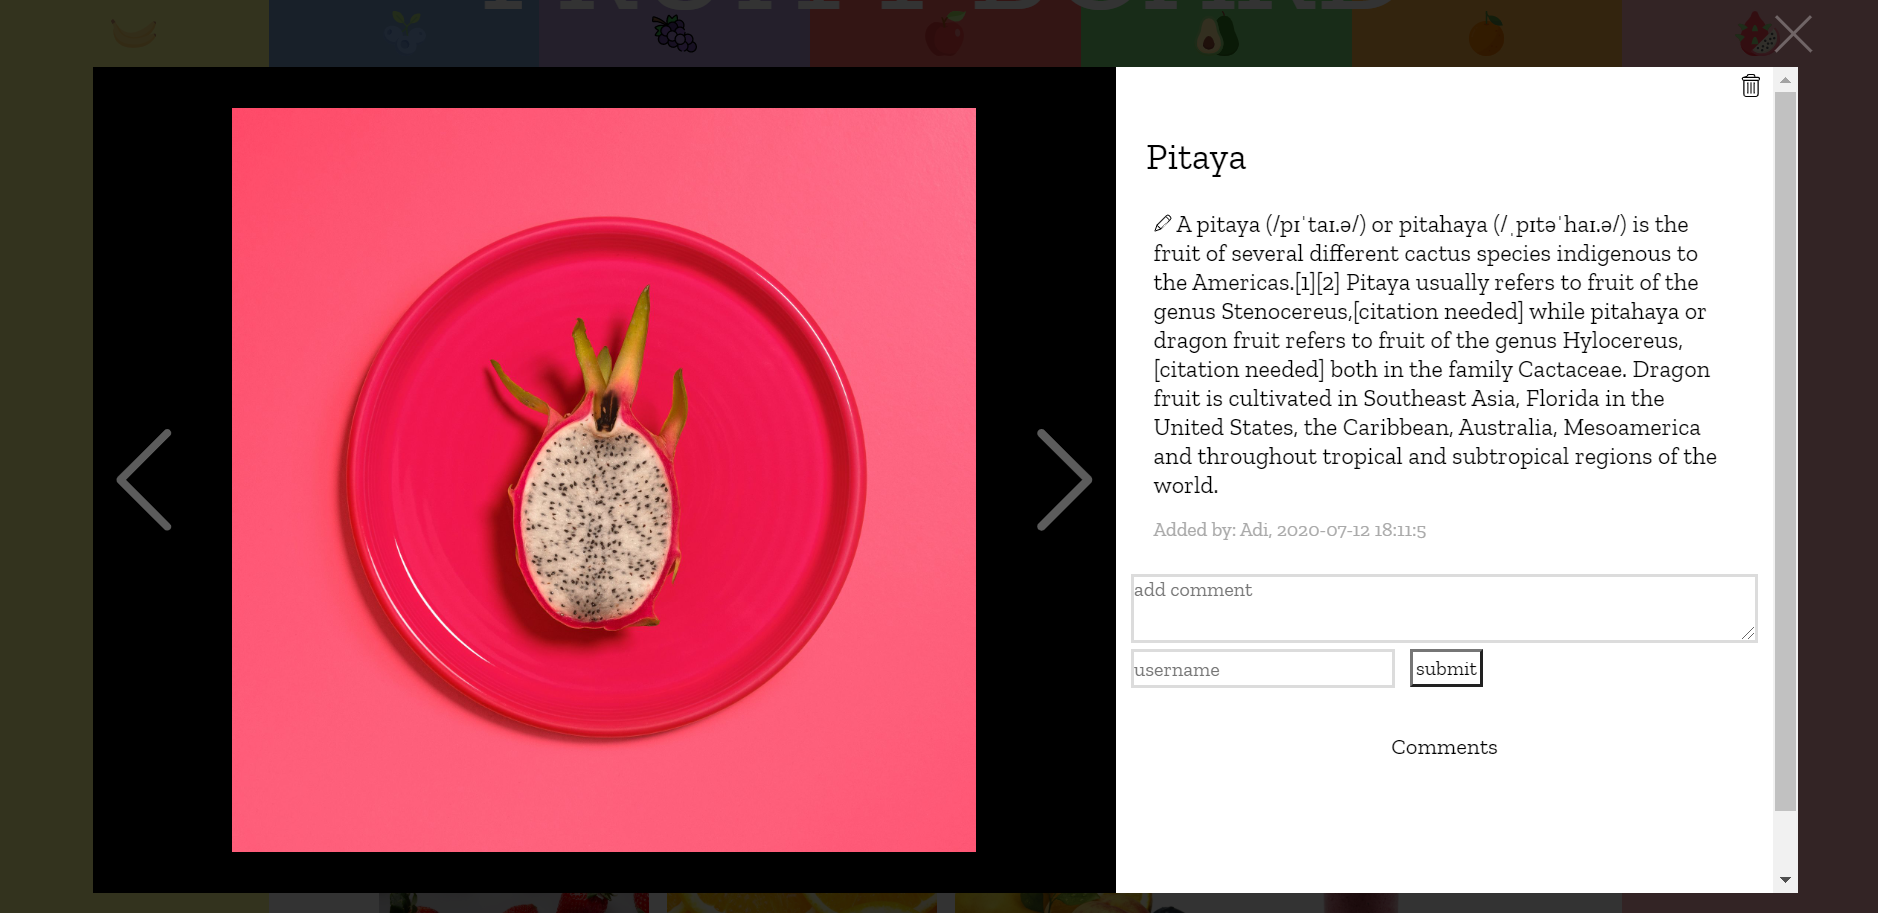
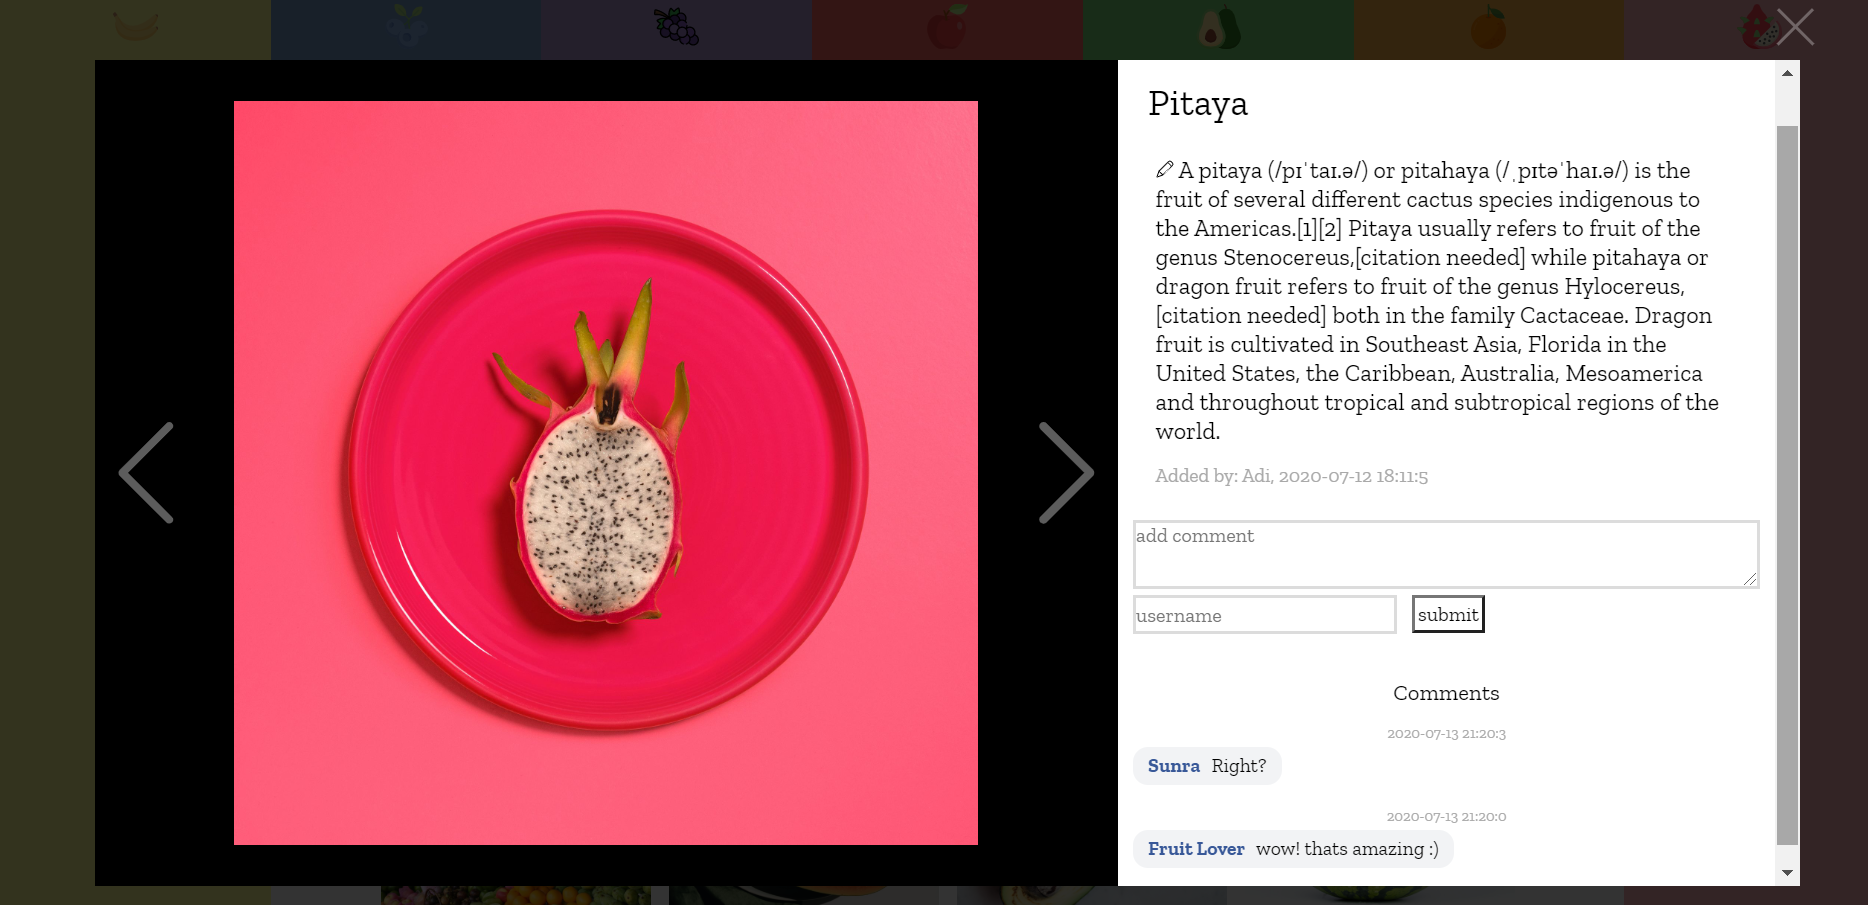
working on README.md

diff --git a/README.md b/README.md
@@ -16,10 +16,7 @@ For frontend I used just pure HTML/CSS.
 
 Backend was build with PostgreSQL for database and Node.js with Express server for the rest.
 Uploaded pictures are sent to AWS S3, in database are stored only URLs.
-
-![img](./images_readme/3.png)
-
-When picture is rejected you can see message:
+When picture is rejected you can see message.
 
 ![img](./images_readme/4.png)
 
@@ -27,13 +24,9 @@ When picture is rejected you can see message:
 
 ### Interaction
 
-Visit a posts page, to get a better look.
+Click on the picture. Now you can add comments using your own nick :)
 
-![img](./readme_images/comment1.png)
-
-Interact with the author, ask questions, critique, praise, or simply share your thoughts in the comment section.
-
-![img](./readme_images/comment2.png)
+![img](./readme_images/4.png)
 
 ---
 
